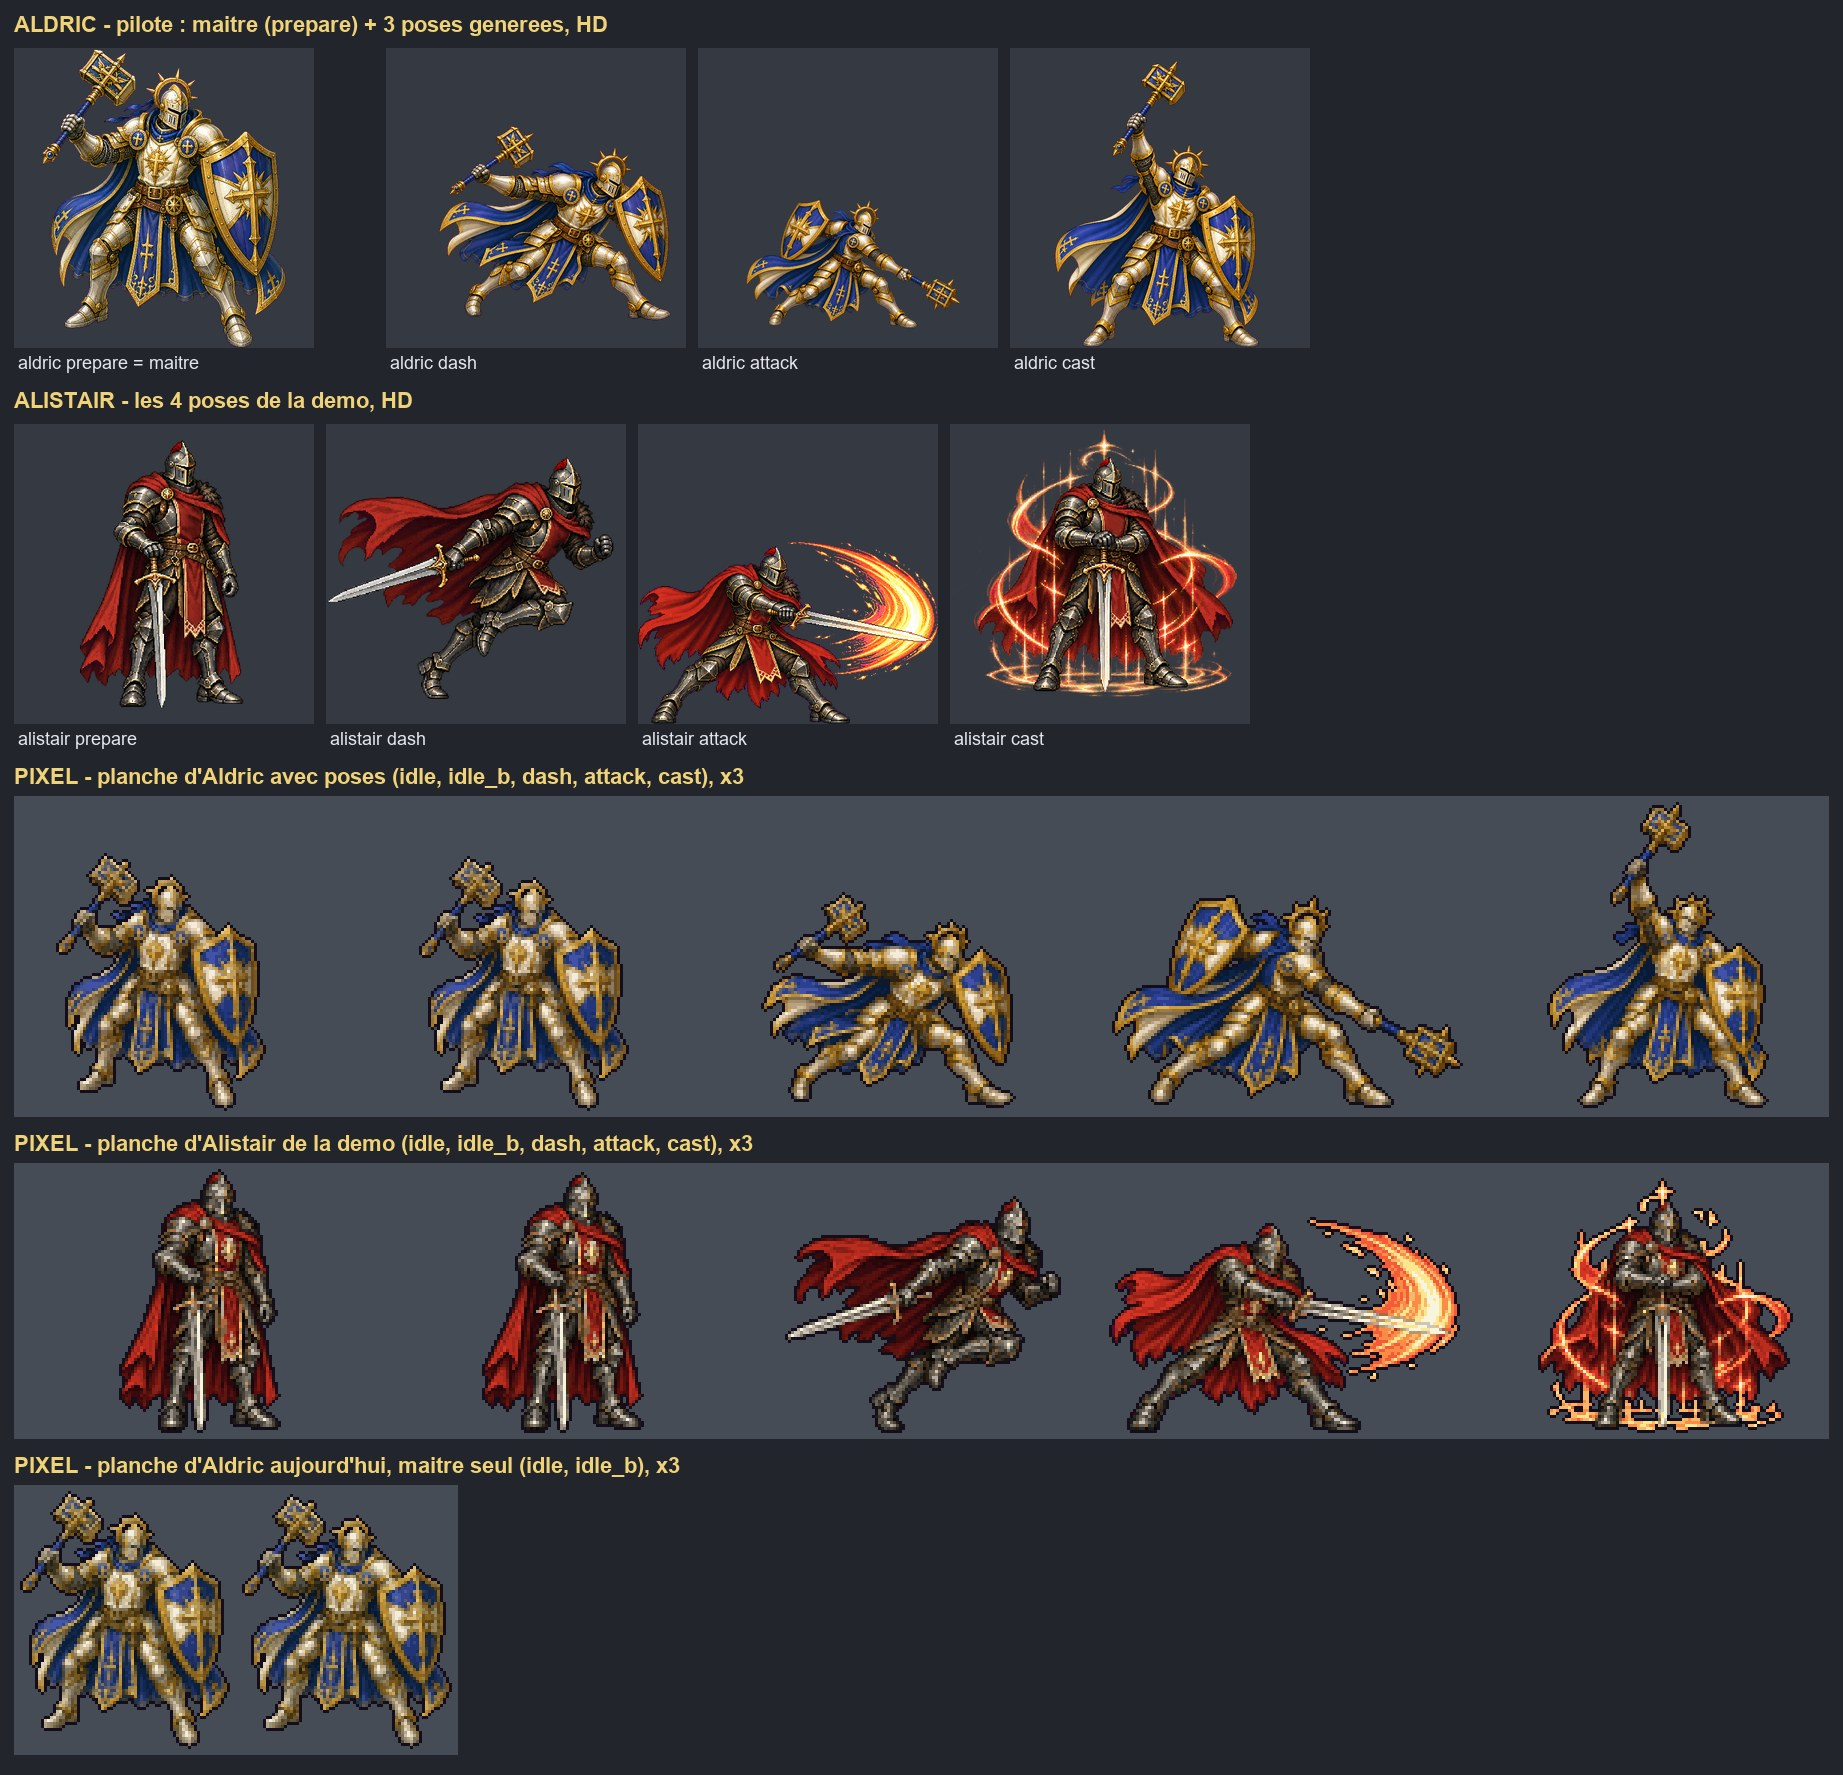
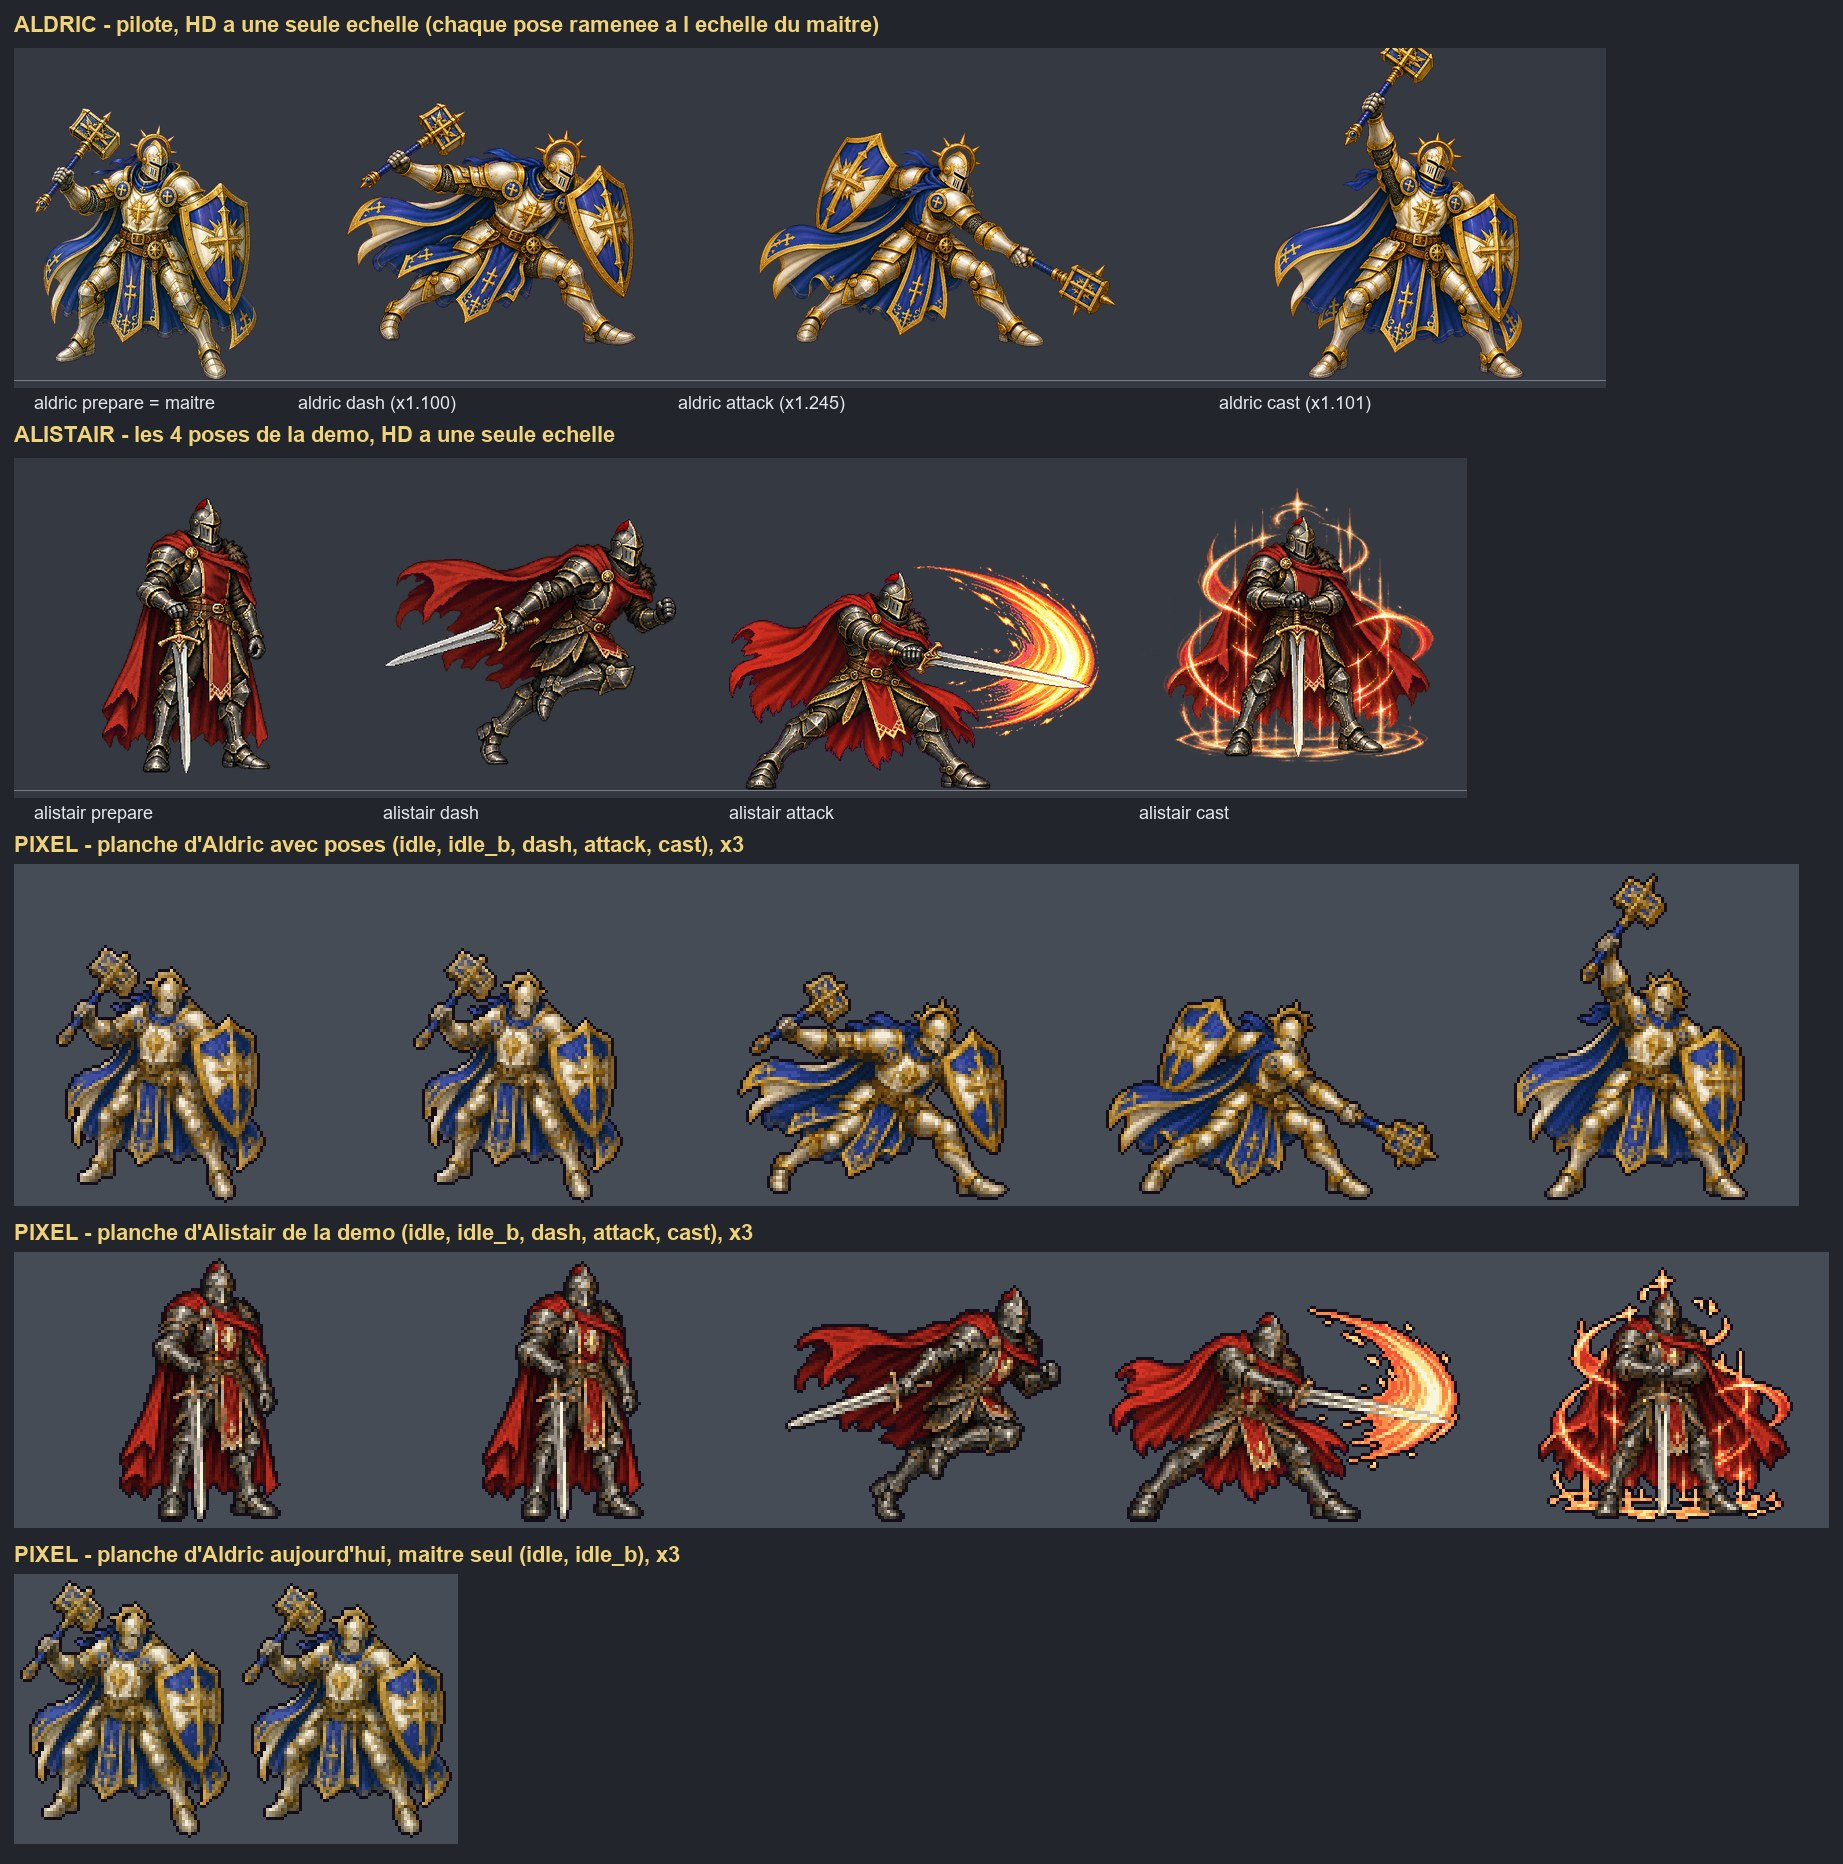
Measure the Aldric pilot's scale on rigid parts and correct its comparison: the model drew each pose larger than the master and at its own scale (dash and cast 1.10, attack 1.245, from feature matches and helm and mace templates), so each pose is now brought back to the master's scale instead of one
Agent: claude; Run: claude-combat-poses-pilot-scale-20261113T0718Z

diff --git a/docs/content/drafts/COMBAT_POSES_SCOPE_2026-11-13.md b/docs/content/drafts/COMBAT_POSES_SCOPE_2026-11-13.md
@@ -168,7 +168,7 @@ Dans la démo, `prepare` est presque le maître : même attitude debout, recalé
 ### Ce qu'une pose doit satisfaire
 
 1. PNG RGBA, coins transparents, aucun pixel #FF00FF, aucun fond blanc, aucun artefact violet, aucune ombre au sol.
-2. La même échelle que le maître sur toutes les poses : un seul facteur par unité, jamais de redimensionnement pose par pose (rejet de la doctrine).
+2. Le même corps, à la même taille que le maître, dans toutes les poses. Le modèle dessine chaque pose à sa propre échelle (pilote, §8). Chaque pose est donc ramenée à l'échelle du maître, mesurée sur ses parties rigides (bouclier, heaume, tête d'arme) ; elle n'est jamais calée sur une boîte, ce que la doctrine rejette.
 3. Les pieds sur une seule ligne, l'ancre aux pieds : 512×512, ou 640×512 pour une attaque large.
 4. Le même côté que le maître ; `dash` et `attack` partent vers l'avant.
 5. La même identité : armure, couleurs, proportions, casque ou capuche fermé (OD-2026-11-11-G), et la même arme, dans la même main, que le moteur de combat.
@@ -187,7 +187,7 @@ Il s'agit d'ajouter un type `pose` à `tools/art/finalImages.ts` : un plan des p
 - **Le reste** : la règle de couleur des Ombres, le style, un fond transparent, la consigne « tourné vers la droite, en entier, pieds sur la ligne du bas, aucun effet ». L'attaque se génère en 1536×1024 pour laisser la place à la lance ou à la faux.
 - **Pour** : l'outil a produit les 157 images finales acceptées, avec le même modèle, sur le même compte. Les règles sont dans le code et sous test. Chaque appel est tracé (modèle, prompt, références). Une pose ratée se refait seule, et l'ordre de la doctrine (`dash`, puis `attack`, puis `cast`) est respecté.
 - **Contre** : 3 appels par unité. Des poses générées séparément peuvent dériver : un emblème, une teinte, la forme d'une arme. Le fond transparent du modèle peut laisser des franges, qu'un contrôle doit attraper.
-- **Risques** : la dérive se voit surtout sur les boss (environ 170 px à l'écran) ; les petites unités (85 à 90 px) l'absorbent. Les armes de jet (lames de jet, fronde, shuriken) sont difficiles à lire en attaque. Une capuche peut s'ouvrir dans une pose d'incantation. L'échelle et la ligne des pieds sont réglées par un normaliseur, jamais pose par pose.
+- **Risques** : la dérive se voit surtout sur les boss (environ 170 px à l'écran) ; les petites unités (85 à 90 px) l'absorbent. Les armes de jet (lames de jet, fronde, shuriken) sont difficiles à lire en attaque. Une capuche peut s'ouvrir dans une pose d'incantation. Le modèle dessine chaque pose à sa propre échelle : un normaliseur mesure chaque pose sur ses parties rigides et la ramène à celle du maître. Une pose tournée montre moins de parties reconnaissables, et sa mesure est moins sûre ; la planche de relecture, qui montre toutes les poses à une seule échelle, sert de contrôle.
 
 ### B. Une bande de 3 poses par appel, par la route `tools/openai-art/`
 
@@ -225,7 +225,7 @@ F1 remplace cette route pour les images finales. Prompts et références n'aurai
 ### Ce qui change dans le code (à l'intégration de chaque lot, pas avant)
 
 1. `tools/art/finalImages.ts` : le type `pose` (plan, exécution, planche). L'empreinte des briefs déjà validés reste identique, et le test le vérifie (`finalImagesFinale.test.ts`).
-2. Un normaliseur, par exemple `tools/pixel-sprites/normalize_final_poses.py`. Il fait le contrôle (coins, magenta, violet, sol), applique un facteur d'échelle par unité tiré du maître, cale la ligne des pieds et le canevas, et écrit les poses HD avec leurs empreintes.
+2. Un normaliseur, par exemple `tools/pixel-sprites/normalize_final_poses.py`. Il fait le contrôle (coins, magenta, violet, sol). Il ramène chaque pose à l'échelle du maître, mesurée sur ses parties rigides par appariement de points et par gabarits du heaume et de l'arme, avec une correction à la main possible pose par pose. Il cale ensuite la ligne des pieds et le canevas, et écrit les poses HD avec leurs empreintes. Il utilise OpenCV (`cv2`) : la bibliothèque est déjà installée sur ce poste, mais aucun outil du dépôt ne s'en sert encore.
 3. `build_combat_sprites.py` : une table des unités posées remplace leurs lignes de `MASTER_ONLY`, avec `idle` égal au maître. Elle garde `aliases`, sans quoi le moteur ne retrouve pas la planche par le portrait, et garde la hauteur actuelle à l'écran. Elle produit les 5 cellules et les animations par défaut.
 4. Maelor : une entrée avec un alias sur `masters/maelor.png`, pour qu'il quitte son maître HD en combat. L'exception de `finalePresentation.test.ts` est mise à jour.
 5. Tests : les 4 tests de présentation des plateaux attendent aujourd'hui `masterOnly === true` (`bearPresentation.test.ts:120` et ses équivalents). Ils attendront les cellules `dash`, `attack` et `cast`.
@@ -273,12 +273,15 @@ Ta réponse : « Oui, lance Aldric ». Planche : [`assets/COMBAT_POSES_PILOT_ALD
 - **Production** : 3 images, `gpt-image-2.5-sunburst-2026-09-08`, qualité haute, fond transparent. `dash` et `cast` en 1024×1024, `attack` en 1536×1024. Toutes ont pour référence le maître d'Aldric, posé sur le canevas de sortie ; `attack` et `cast` ont en plus la `dash` acceptée. Aucune reprise sur les 2 prévues.
 - **Outil** : un script jetable, `tmp/combat-poses-pilot/pilot.ts`, qui reprend les règles de `tools/art/finalImages.ts` (visage couvert, règle d'arme, lecture de la clé jamais affichée) sans le modifier. Les sorties et le journal (prompt, empreintes des références et des images, jetons) sont dans `tmp/combat-poses-pilot/`, ignoré par Git.
 - **La planche montre** :
-  - les HD d'Aldric (son maître en `prepare`, puis ses 3 poses) au-dessus des 4 poses d'Alistair ;
+  - les HD d'Aldric (son maître en `prepare`, puis ses 3 poses), toutes ramenées à l'échelle du maître et posées sur une même ligne de sol, au-dessus des 4 poses d'Alistair, elles aussi à une seule échelle ;
   - la planche pixel d'Aldric, construite avec les fonctions de `build_combat_sprites.py` : une palette de 41 couleurs, une seule échelle, les pieds alignés, une figure de 84 px (85 aujourd'hui) ;
   - à côté, la planche d'Alistair et la planche « maître seul » actuelle d'Aldric.
 - **Ce qui tient** : dans les 3 poses, la même identité (heaume fermé à couronne solaire, armure blanc et or, tabard et cape bleu et or, bouclier bleu à croix d'or, masse à tête en cage), le visage couvert et la même arme. Les poses vont vers la droite, sans aucun effet. Le contrôle donne des coins transparents, aucun pixel magenta et aucun pixel plein sur les bords.
 - **Ce qu'il faut savoir** :
-  1. **Échelle** : le modèle a dessiné les poses environ 15 % plus petites que le maître (0,80 à 0,87 selon la surface pleine), bien que le maître ait été posé à l'échelle voulue sur le canevas. Un facteur unique pour l'unité (la médiane, 0,846) les ramène à la bonne taille. Le normaliseur du lot fera de même, jamais pose par pose. L'écart entre les poses (±4 %) tient en partie à la cape.
+  1. **Échelle, corrigée après ta remarque** : le modèle dessine chaque pose à sa propre échelle, et plus grande que le maître, bien que le maître ait été posé à la taille voulue sur le canevas. Mesuré sur les parties rigides (`tmp/combat-poses-pilot/measure_scale.py`), `dash` est à 1,10 fois le maître, `cast` à 1,10 et `attack` à 1,245.
+     - Ma première planche se trompait de trois façons. Elle appliquait à toute l'unité un seul facteur, tiré de la surface, si bien que l'attaque restait environ 13 % trop grande. Elle réduisait chaque vignette HD à sa propre taille, ce qui brouillait la comparaison. Et j'avais écrit à tort « plus petites ».
+     - Désormais, chaque pose est ramenée à l'échelle du maître, et la planche montre les HD à une seule échelle.
+     - L'attaque reste la mesure la moins sûre (4 mesures, de 1,09 à 1,52), parce que le bouclier y est tourné. La planche à une seule échelle sert de contrôle, et le lot permettra une correction à la main.
   2. **Repos et incantation se ressemblent** : le maître d'Aldric lève déjà sa masse, et sa pose `cast` aussi. C'est le cas que Q3 évoque pour les héros, dont les maîtres sont en action : une `prepare` plus calme les distinguerait, pour une image de plus par héros.
   3. **Effets** : les poses d'Alistair portent leurs effets (traînée de feu, aura), celles d'Aldric n'en ont pas (Q4). En combat, les effets procéduraux de ses compétences les remplacent.
   4. **Frange** : le fond transparent du modèle laisse un liseré semi-transparent, que le seuil d'alpha du constructeur retire. Rien à reprendre à la main.
